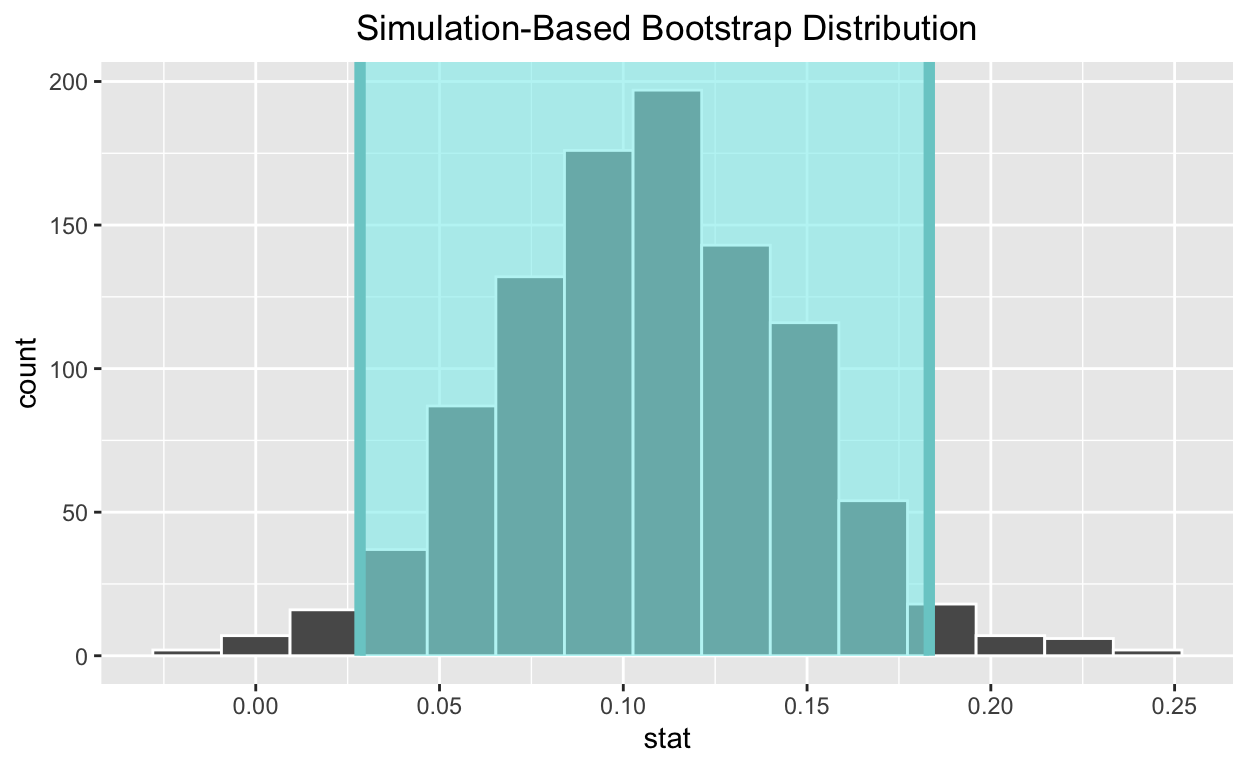
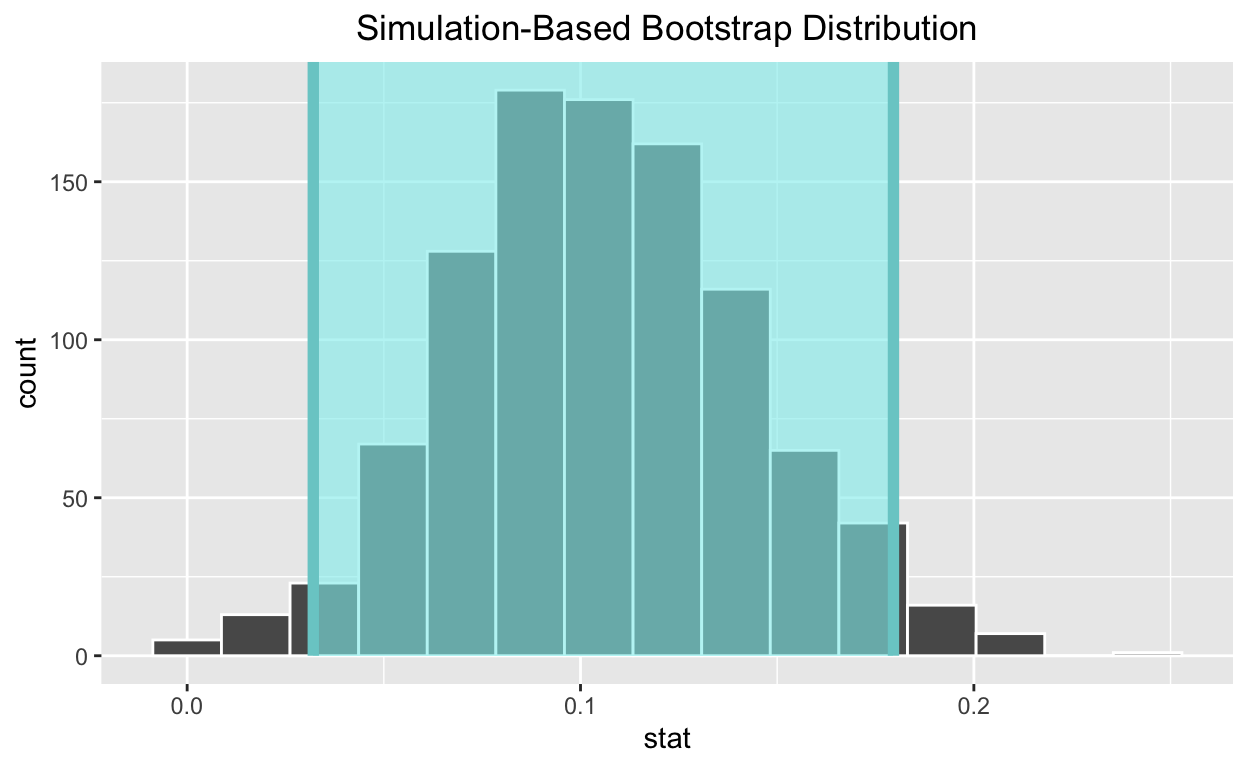
idk

diff --git a/index.html b/index.html
@@ -1656,7 +1656,7 @@ Explanatory: habit_binary (numeric)
 <pre><code># A tibble: 1 × 1
   p_value
     &lt;dbl&gt;
-1       0</code></pre>
+1   0.001</code></pre>
 </div>
 <h4 id="interpretation-of-the-p-value-for-preemie">Interpretation of the P-Value for Preemie</h4>
 <p>The P value is 0.001. This is highly statistically significant and tells us that observing a correlation statistic of 0.1058123 or more extreme is very unlikely under the null hypothesis.Therefore, there is evidence to support the alternative hypothesis that there is positive correlation between smoking habits and the likelihood of premature birth, and we can reject the null hypothesis.</p>
@@ -1675,7 +1675,7 @@ Explanatory: habit_binary (numeric)
 <pre><code># A tibble: 1 × 2
   lower_ci upper_ci
      &lt;dbl&gt;    &lt;dbl&gt;
-1   0.0284    0.183</code></pre>
+1   0.0321    0.180</code></pre>
 </div>
 <div class="layout-chunk" data-layout="l-body">
 <div class="sourceCode">
@@ -1858,7 +1858,7 @@ Explanatory: habit_binary (numeric)
 <pre><code># A tibble: 1 × 2
   lower_ci upper_ci
      &lt;dbl&gt;    &lt;dbl&gt;
-1   0.0889    0.262</code></pre>
+1   0.0892    0.262</code></pre>
 </div>
 <div class="layout-chunk" data-layout="l-body">
 <div class="sourceCode">
